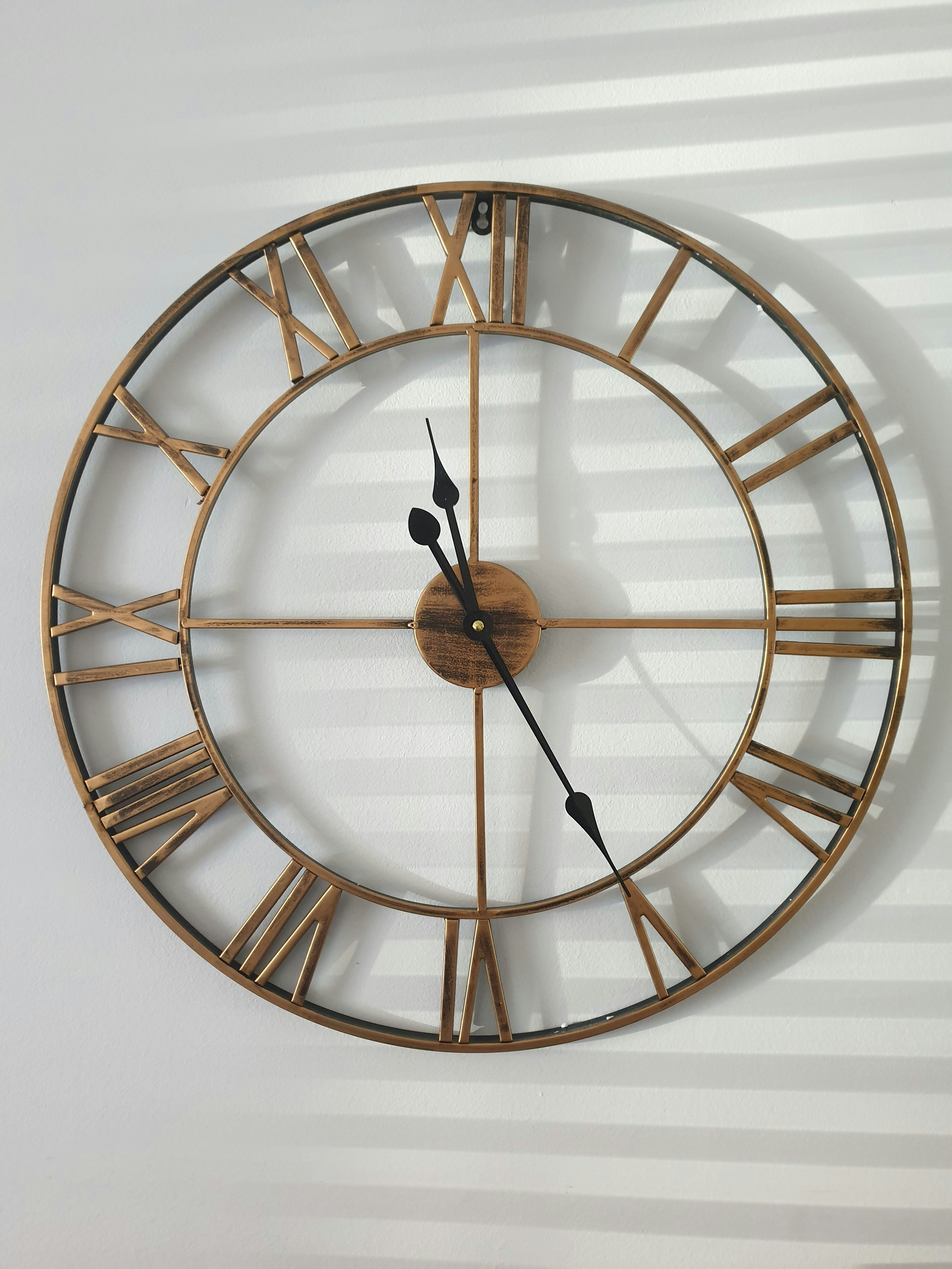
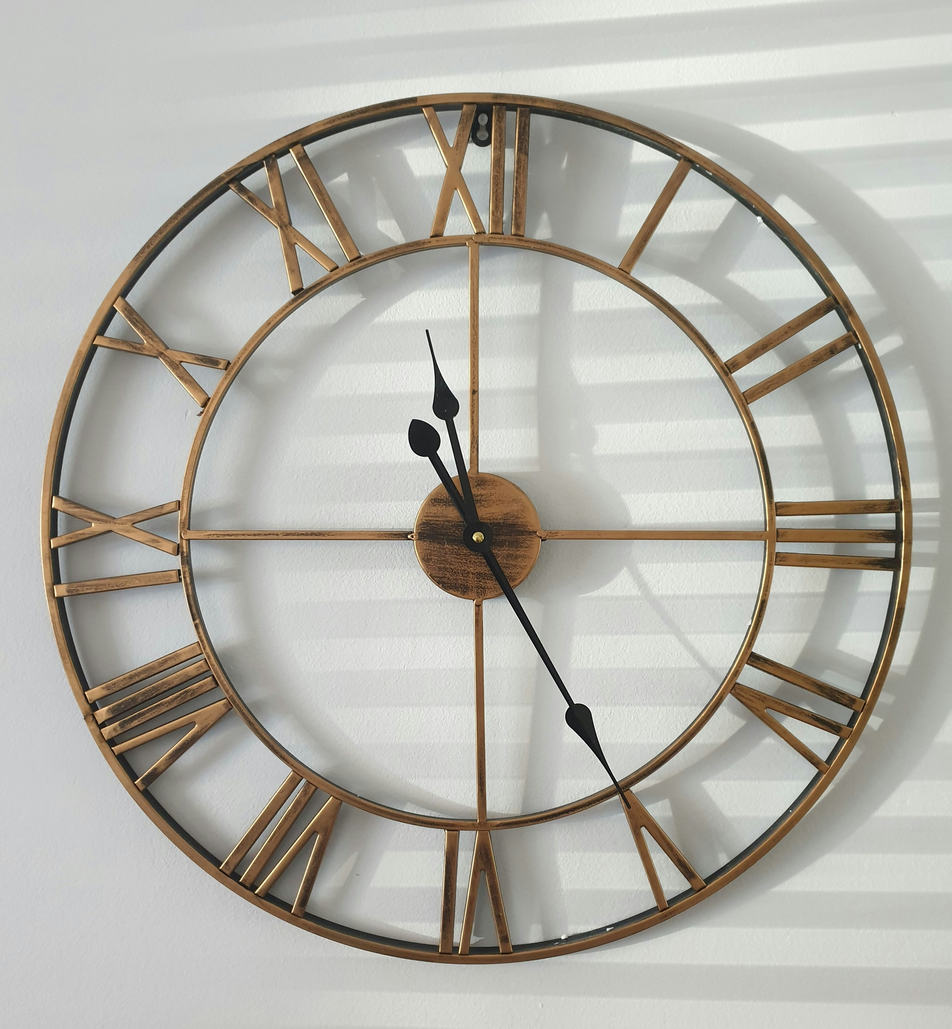
edited the stylesheet forreal this time

diff --git a/assets/css/style.css b/assets/css/style.css
@@ -288,7 +288,7 @@ main{
 .product-image{
     display: block;
     width: 100%;
-    height: 180px;
+    height: 190px;
     object-fit: cover;
     background: var(--bg-placeholder);
     border-radius: 8px;
